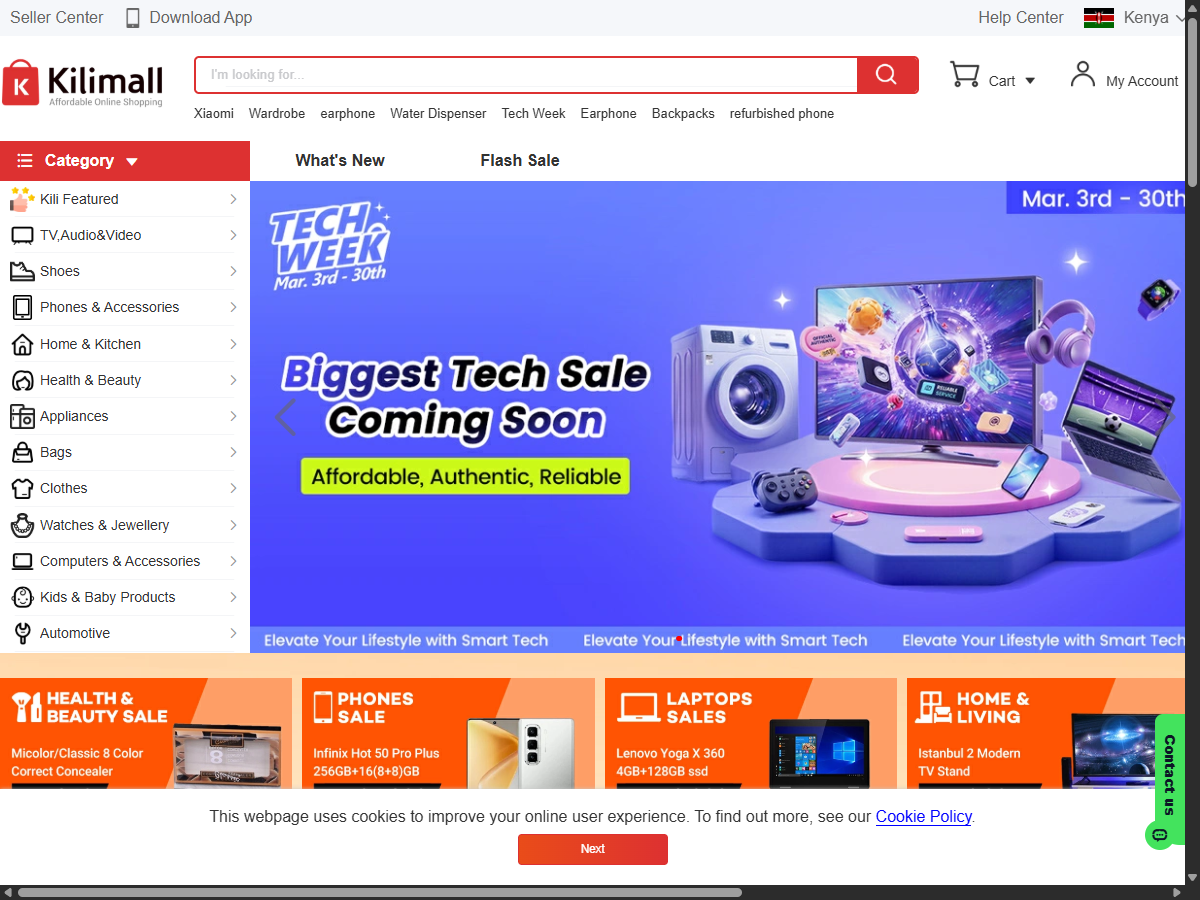
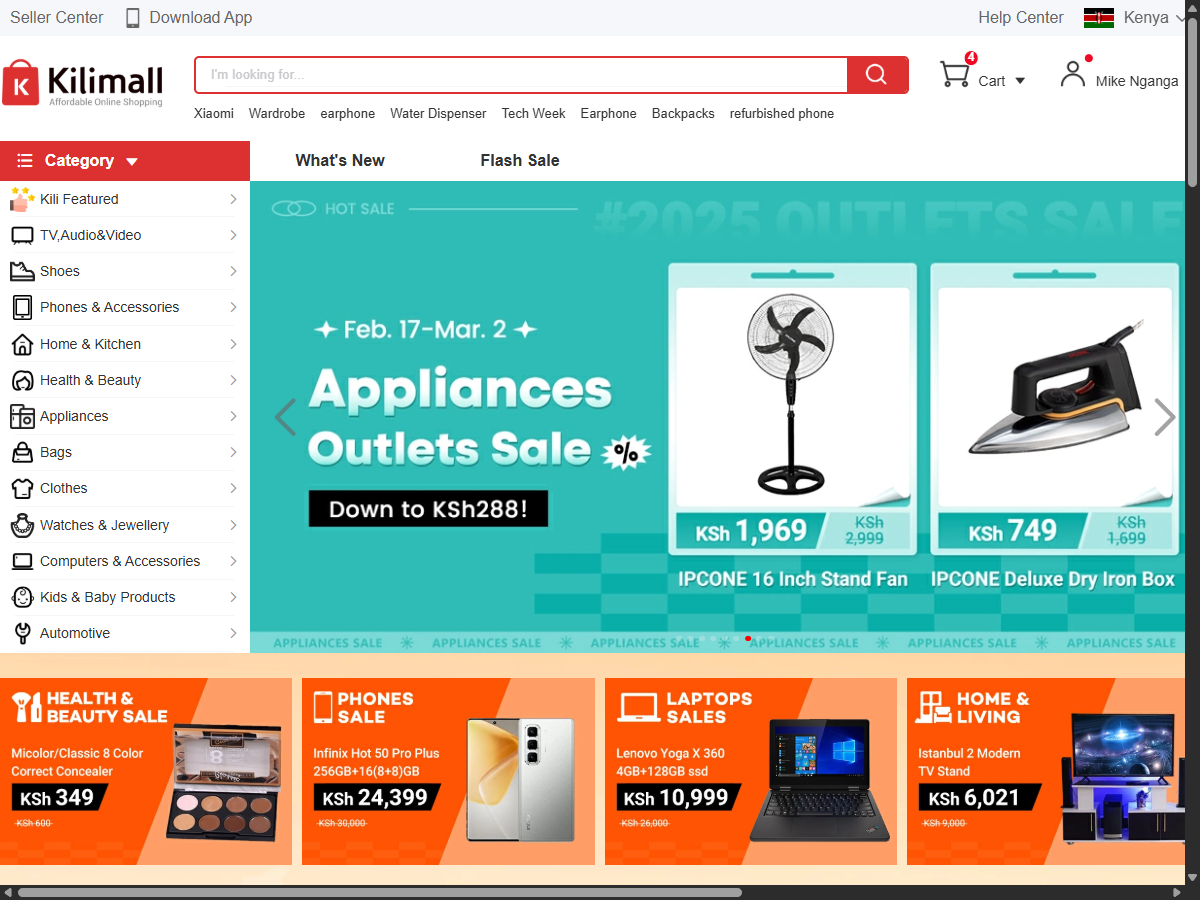
Login Feature Completed

diff --git a/step_definitions/login.ts b/step_definitions/login.ts
@@ -6,6 +6,7 @@ dotenv.config();
 const Test_Email: string = process.env.KILIMALL_EMAIL!;
 
 const Test_Password: string = process.env.KILIMALL_PASSWORD!;
+
 // Add in your custom step files
 
 Given("the user has browsed to the homepage", () => {
@@ -20,13 +21,47 @@ Then("the login page should be displayed", () => {
 });
 
 Then("the user fills in email as {string}", (email: string) => {
-  I.waitForVisible("#van-field-11-input", 60); // Wait for the email input field to be visible
-  I.fillField("#van-field-11-input", email || Test_Email);
+  const actualEmail = email.includes("<") ? Test_Email : email;
+  I.waitForVisible('//input[@name="account"]', 15); // Wait for the email input field to be visible
+  I.fillField('//input[@name="account"]', actualEmail);
 });
 
 Then("the user fills in password as {string}", (password: string) => {
-  I.waitForVisible("#van-field-12-input", 60); // Wait for the email input field to be visible
-  I.fillField("#van-field-12-input", password || Test_Password);
+  const actualPassword = password.includes("<") ? Test_Password : password;
+  I.waitForVisible('//input[@name="password"]', 15); // Wait for the password input field to be visible
+  I.fillField('//input[@name="password"]', actualPassword);
+});
+
+Then("the user clicks the submit Button", () => {
+  I.waitForVisible('//button[@type="submit"]', 15); // Wait for the submit button to be visible
+  I.click('//button[@type="submit"]');
+});
+
+Then("the user is redirected back to the homepage", () => {
+  I.waitForNavigation(5);
+  I.seeInCurrentUrl("/");
+});
+
+Then("the user hovers over their account and sees a logout button", () => {
+  I.wait(10);
+  // Wait for the profile section to exist in the DOM (even if hidden)
+  I.waitForElement('//div[contains(@class, "opt-btn my")]', 5);
+
+  // Ensure the profile section is actually visible before hovering
+  I.waitForVisible('//div[contains(@class, "opt-btn my")]', 5);
+  //Button is only visible when i hover over the image icon
+
+  /* I.wait(10); */
+
+  I.waitForVisible('//img[contains(@src, "user-icon@2x.png")]', 10); // Ensure the image is loaded
+
+  // Hover over the profile icon to reveal the logout button
+  I.moveCursorTo('//img[contains(@src, "user-icon@2x.png")]');
+
+  I.waitForVisible(
+    "//button[contains(@class, 'van-button') and .//span[text()='Logout']]",
+    10
+  );
 });
 
 Given("the user has browsed to the homepage", () => {

diff --git a/codecept.conf.ts b/codecept.conf.ts
@@ -5,8 +5,8 @@ exports.config = {
       url: "https://www.kilimall.co.ke",
       show: true,
       windowSize: "1200x900",
-      /* waitForNavigation: ["load", "domcontentloaded", "networkidle0"]
-      waitForTimeout: 10000, */
+      waitForNavigation: ["load", "domcontentloaded", "networkidle0"],
+      waitForTimeout: 10000,
     },
   },
   include: {
